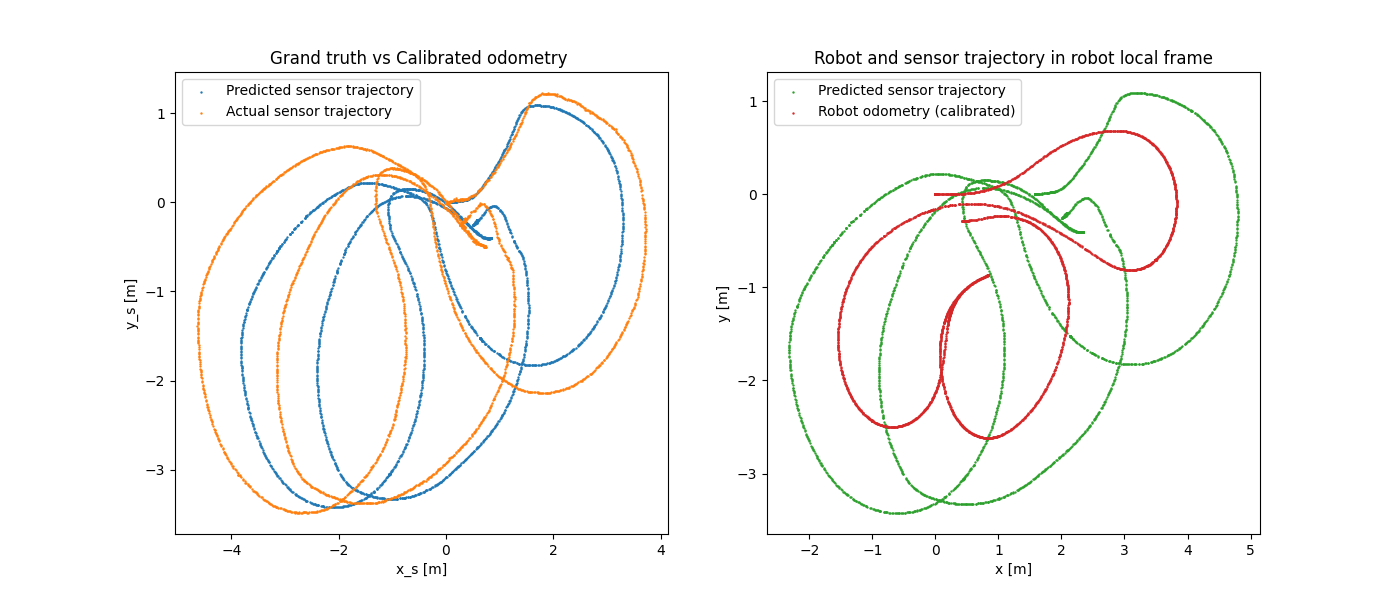
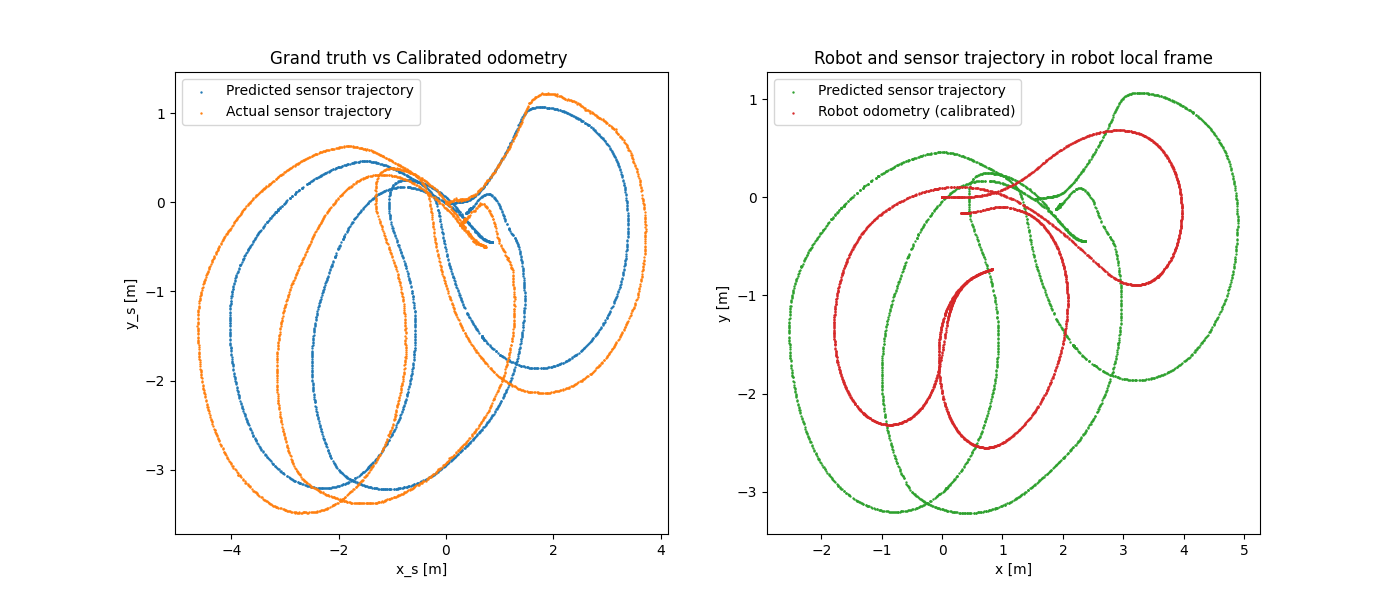
downsampled measurements to achieve better results

diff --git a/src/calibration.cpp b/src/calibration.cpp
@@ -57,7 +57,8 @@ int main(int argc, char** argv) {
     int dim_measurement = 3;
     int num_variables = 7;
     int num_measurements = ds.records.size();
-    int max_iter = 13;
+    int max_iter = 19;
+    int skip_N = 3;
     int num_outliers = 0;
     double kernel_threshold = 2e-4;
     double chi_sq = 0;
@@ -85,7 +86,7 @@ int main(int argc, char** argv) {
          ds.params.steer_offset;
 
     Eigen::MatrixXd Omega = 1 * Eigen::MatrixXd::Identity(dim_measurement, dim_measurement);
-   
+
     // LS loop
     for (int iter = 0; iter < max_iter; iter ++){
         // clear H and b
@@ -96,7 +97,7 @@ int main(int argc, char** argv) {
         num_outliers = 0;
 
         // one iter loop            
-        for(int index = 1; index < num_measurements; index++){
+        for(int index = 1; index < num_measurements; index+=skip_N){
 
             // get a measurement (returns delta_z displacement from prev to curr)
             get_sensor_reading(ds, index, time, ticks_steer, delta_ticks_track, delta_z);
@@ -110,10 +111,9 @@ int main(int argc, char** argv) {
                 error *= std::sqrt(kernel_threshold/chi_sq);
                 chi_sq = kernel_threshold;
                 num_outliers += 1;
+                total_iter_chi_sq += chi_sq;
                 continue;
             }
-
-            total_iter_chi_sq += chi_sq;
 
             // accumulate H and b 
             H += Jacobian.transpose() * Omega * Jacobian;
@@ -126,7 +126,6 @@ int main(int argc, char** argv) {
         // calibrate_parameters
         H += 2.0 * Eigen::MatrixXd::Identity(num_variables, num_variables);     // required for numerical stability
         Eigen::VectorXd dx = H.bdcSvd(Eigen::ComputeThinU | Eigen::ComputeThinV).solve(-b);
-
         x = box_plus(x, dx);
         
         error_log.push_back(total_iter_chi_sq);

diff --git a/README.md b/README.md
@@ -181,14 +181,15 @@ Here, $e_j$ denotes the error corresponding to the $j$-th sample, while $J_i$ re
 The evolution of the Omega norm of the error and the number of outliers during the execution of the algorithm is shown below:
 <img src="img/error.png" alt="Sample dataset plot" width="900"/>
 
-At the beginning, the error norm remains relatively contained, with some initial increases caused by measurement noise and by the ill-conditioning of the Jacobian (due to the numerical approximation used). After these first iterations, the error progressively converges to a smaller value.  
+At the beginning, the error norm remains relatively contained, with some initial increases caused by measurement noise and by the ill-conditioning of the Jacobian (due to the numerical approximation used).
+The error progressively converges to a smaller value.  
 In parallel, the number of outliers (measurements inconsistent with the model and producing a significantly high error) decreases as iterations proceed.  
 This behavior demonstrates that the **Least Squares on Manifold** algorithm revealed effective for this calibration task.
 
 <img src="img/calibration.png" alt="Sample dataset plot" width="1200"/>
 After calibration, the predicted sensor trajectory aligns closely with the measured one, clear evidence of successful calibration.  
 
-However, due to numerical approximation and measurement noise, the predicted trajectory is not perfectly superimposed on the ground truth, but the residual shift remains minimal. The experimental results have been obtained using max iterations = 13.
+However, due to numerical approximation and measurement noise, the predicted trajectory is not perfectly superimposed on the ground truth, but the residual shift remains minimal. The experimental results have been obtained using max iterations = 19.
 
 ## How to run the code
 1. Clone the repo
